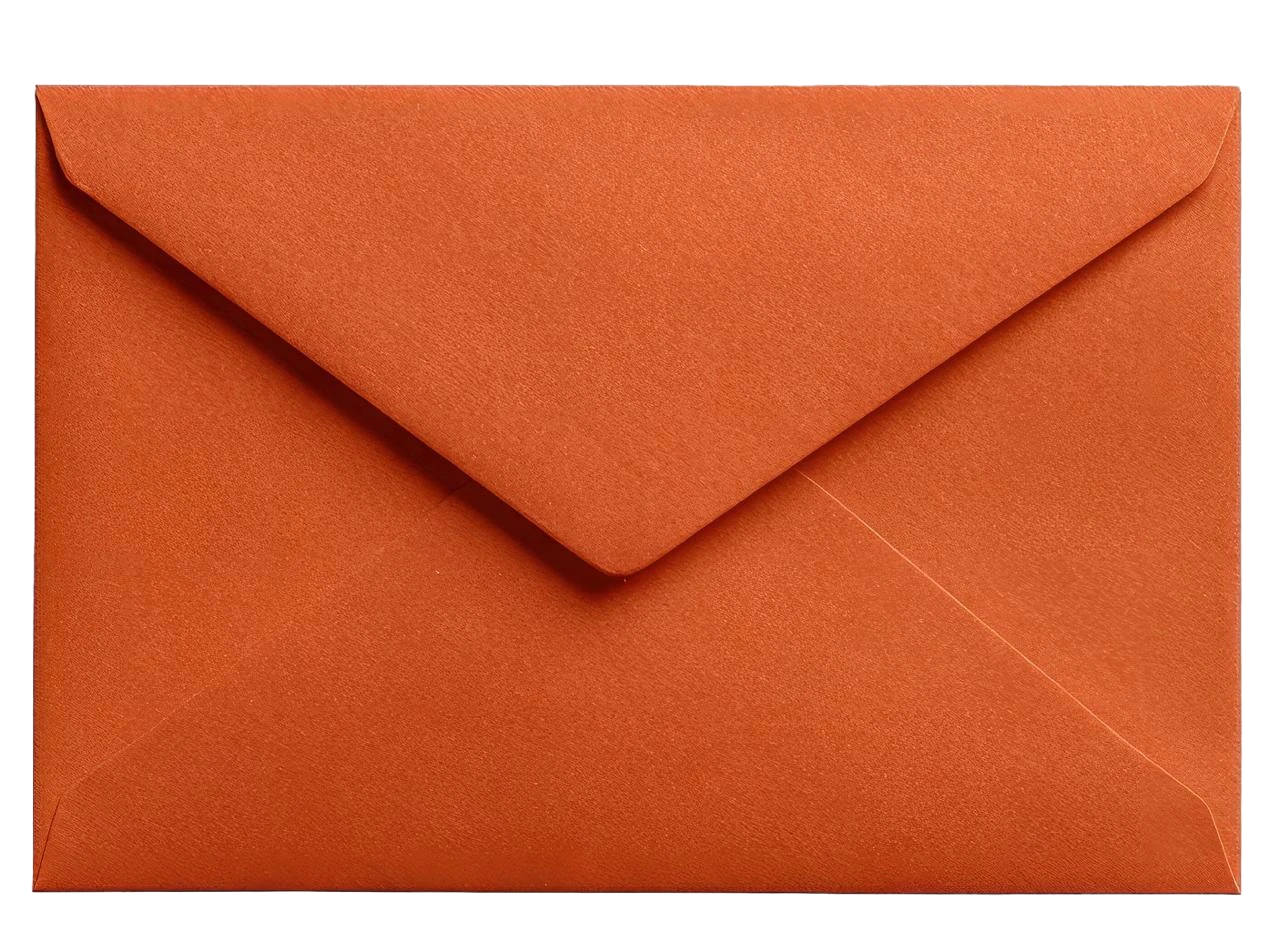
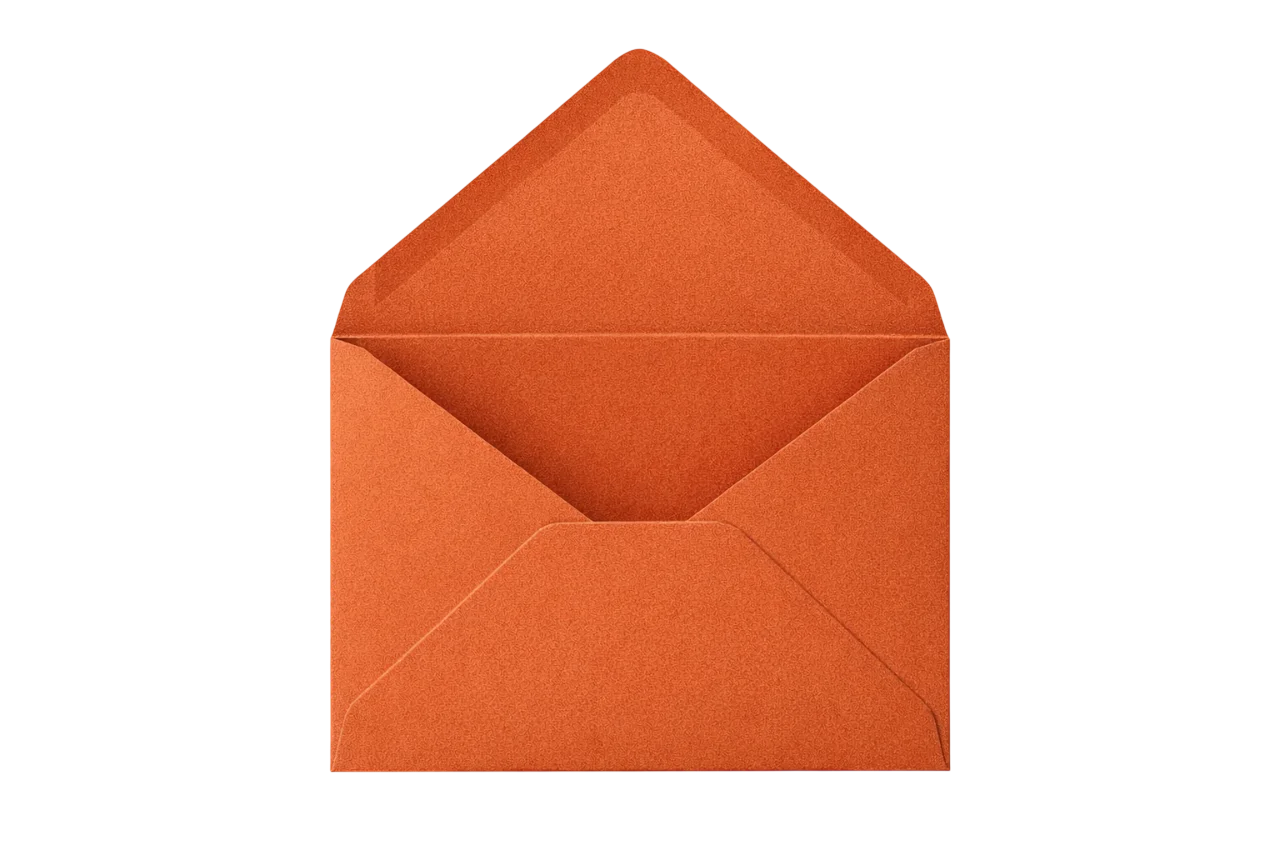
Update envelope image and adjust layout styles
Replaced and updated the envelope image, added a new open envelope asset, and modified HTML and CSS to improve envelope positioning, sizing, and rotation for better visual appearance across devices.

diff --git a/style.css b/style.css
@@ -355,14 +355,14 @@ body::before {
 /* Envelope Image */
 .envelope {
     position: absolute;
-    top: 10%;
-    right: -5%;
-    width: 75%;
-    max-width: 450px;
+    top: 0%;
+    right: -10%;
+    width: 85%;
+    max-width: 800px;
     height: auto;
     z-index: 0;
-    -webkit-transform: rotate(15deg);
-    transform: rotate(15deg);
+    -webkit-transform: rotate(18deg);
+    transform: rotate(18deg);
     -webkit-transition: -webkit-transform 0.8s ease-in-out, opacity 0.8s ease-in-out;
     transition: transform 0.8s ease-in-out, opacity 0.8s ease-in-out;
     -webkit-filter: drop-shadow(0 10px 25px rgba(0, 0, 0, 0.3));
@@ -417,10 +417,13 @@ body::before {
     }
 
     .envelope {
-        width: 65%;
-        max-width: 350px;
-        top: 15%;
-        right: -5%;
+        width: 135%;
+        max-width: 800px;
+        top: 2%;
+        right: -45%;
+        left: auto;
+        -webkit-transform: rotate(15deg);
+        transform: rotate(15deg);
     }
 
     .nav-buttons {
@@ -450,8 +453,11 @@ body::before {
     }
 
     .envelope {
-        width: 65%;
-        top: 12%;
-        right: -5%;
+        width: 135%;
+        top: 2%;
+        right: -45%;
+        left: auto;
+        -webkit-transform: rotate(15deg);
+        transform: rotate(15deg);
     }
 }

diff --git a/index.html b/index.html
@@ -27,7 +27,7 @@
         href="https://fonts.googleapis.com/css2?family=Playfair+Display:wght@400;500;600;700&family=Lora:wght@400;500;600&display=swap"
         rel="stylesheet">
     <link rel="preload" as="image" href="assets/card.webp">
-    <link rel="stylesheet" href="style.css" />
+    <link rel="stylesheet" href="style.css?v=5" />
 </head>
 
 <body>
@@ -35,7 +35,7 @@
 
         <div class="envelope-wrapper" id="envelopeWrapper">
             <div class="envelope">
-                <img src="assets/envelope.webp" alt="Sobre" width="1280" height="932" />
+                <img src="assets/envelope.webp" alt="Sobre" width="1024" height="1536" />
             </div>
             <div class="card-container" id="cardContainer">
                 <div class="card active" id="card1">
